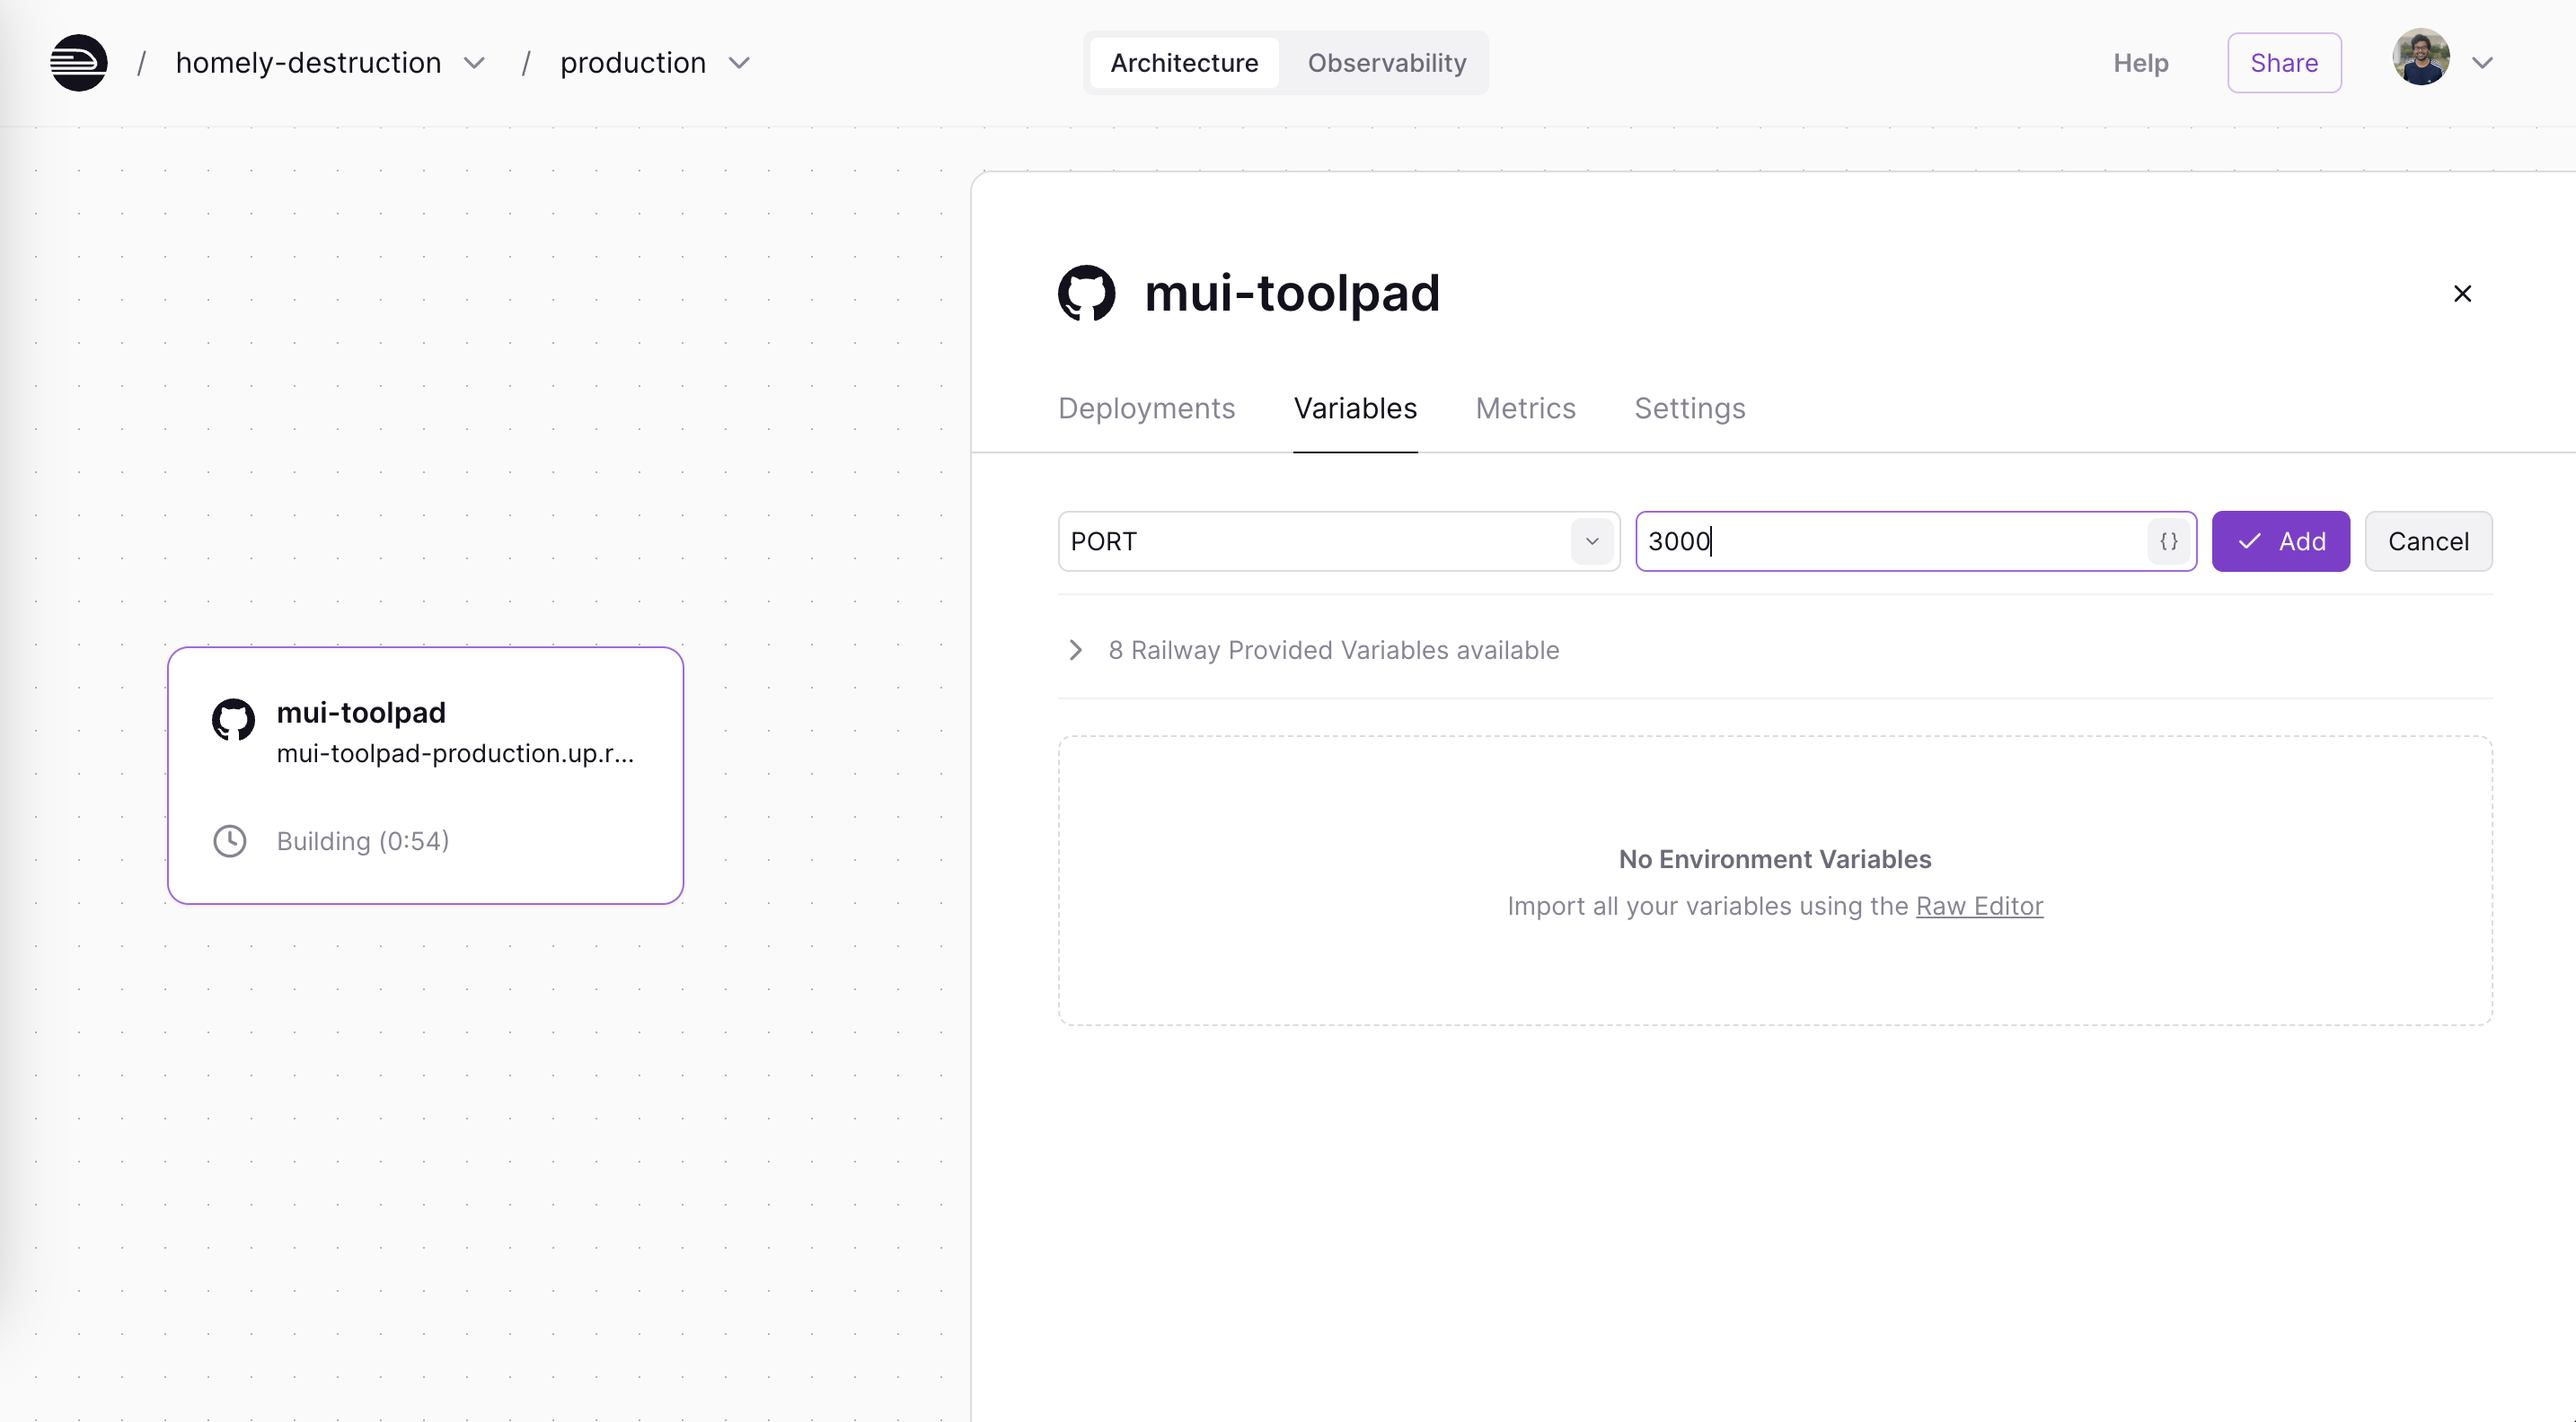
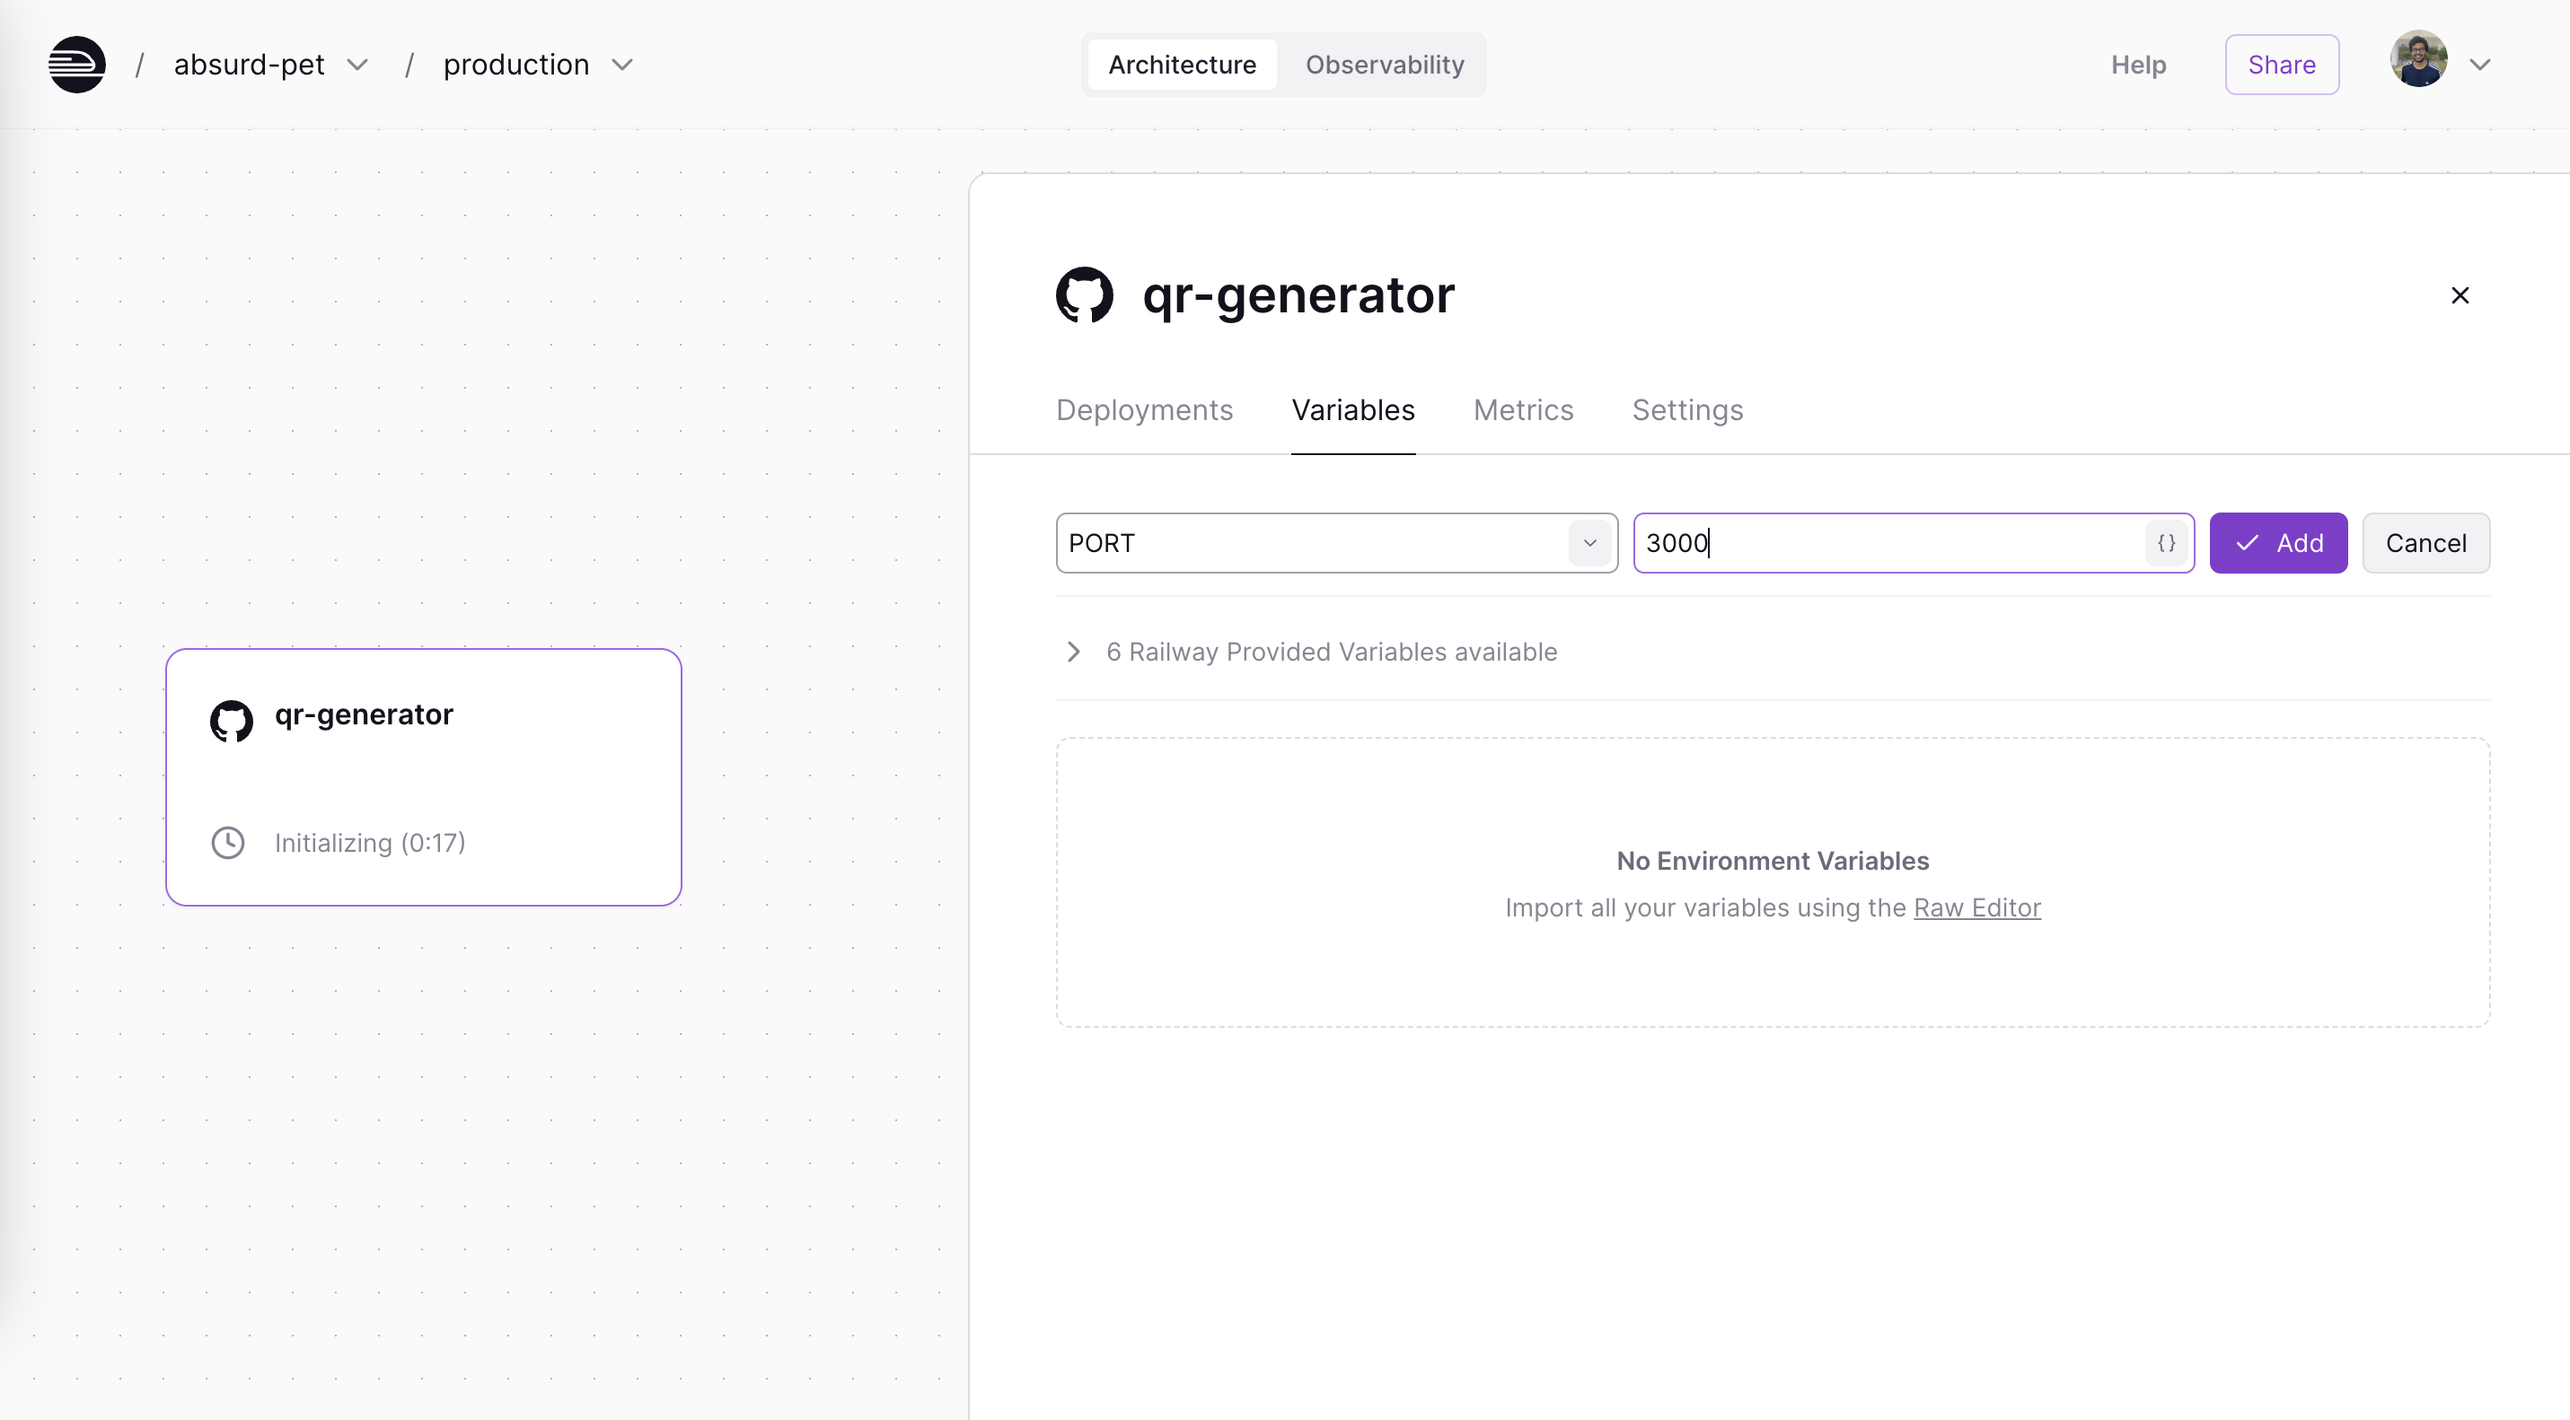
change repo and make it a happy flow

diff --git a/docs/data/toolpad/studio/how-to-guides/railway-deploy.md b/docs/data/toolpad/studio/how-to-guides/railway-deploy.md
@@ -2,7 +2,7 @@
 
 <p class="description">You can host and share your Toolpad Studio apps on Railway in a few minutes, for free.</p>
 
-This guide walks you throught the deployment of the [qr-generator](https://github.com/mui/mui-toolpad/tree/master/examples/qr-generator) example from the Toolpad repository.
+This guide walks you through the deployment of a [qr-generator](https://github.com/Prakhar-org/qr-generator) example from a GitHub repository.
 
 ## Prerequisites
 
@@ -12,7 +12,7 @@ This guide walks you throught the deployment of the [qr-generator](https://githu
 
 ## Creating a new app on Railway
 
-1. From your Railway dashboard, click on **New Project** from the top-right corner and choose **Deploy from GitHub repo** form the drop-down.
+1. From your Railway dashboard, click on **New Project** from the top-right corner and choose **Deploy from GitHub repo** from the drop-down.
 
 {{"component": "modules/components/DocsImage.tsx", "src": "/static/toolpad/docs/studio/deploy-railway/railway-create-new-project.png", "alt": "Railway new project", "caption": "Creating a new Railway project", "indent": 1 }}
 
@@ -20,17 +20,19 @@ This guide walks you throught the deployment of the [qr-generator](https://githu
 
 {{"component": "modules/components/DocsImage.tsx", "src": "/static/toolpad/docs/studio/deploy-railway/choose-repository.png", "alt": "Choosing the repository", "caption": "Choosing the repository", "indent": 1 }}
 
-3. Select the repository and click **Deploy Now**. Railway can guess that you are deploying a Node app.
+3. Select the repository and click on **Add Variables**. Any environment variables that your app needs can be set up now.
 
-4. The default build may fail as some config changes are required. On the deployment screen, you'll see four tabs, navigate to the **Settings** tab and update the root directory as shown below.
+{{"component": "modules/components/DocsImage.tsx", "src": "/static/toolpad/docs/studio/deploy-railway/add-variable.png", "alt": "Adding variable", "caption": "Adding a variable","indent": 1 }}
 
-{{"component": "modules/components/DocsImage.tsx", "src": "/static/toolpad/docs/studio/deploy-railway/configure-root-directory.png", "alt": "Configuring the root directory", "caption": "Configuring the root directory", "indent": 1 }}
+4. Toolpad Studio apps run on port 3000, so add a `PORT` variable and set its value to 3000.
 
-5. Scroll down and click on **Generate Domain** to create a public URL. You can also create a custom URL.
+{{"component": "modules/components/DocsImage.tsx", "src": "/static/toolpad/docs/studio/deploy-railway/add-port-as-a-variable.png", "alt": "Adding port as a variable", "caption": "Adding PORT as a variable", "indent": 1 }}
+
+5. On the same UI, go to the Settings tab, scroll down and and click on **Generate Domain** to create a public URL. You can also create a custom URL.
 
 {{"component": "modules/components/DocsImage.tsx", "src": "/static/toolpad/docs/studio/deploy-railway/generate-domain.png", "alt": "Generating a public URL", "caption": "Generating a public URL", "indent": 1 }}
 
-6. The build and start commands commands are set to
+6. If you scroll below, you'll see that the build and start commands are set to
 
    ```bash
    $ npm run build
@@ -39,14 +41,18 @@ This guide walks you throught the deployment of the [qr-generator](https://githu
 
    by default. You can leave this unchanged.
 
-7. Toolpad Studio apps run on port 3000, so navigate to the **Variables** tab to add a `PORT` variable and set its value to 3000.
+7. Now a floating Deploy button will be shown on the top. Click it and the build starts.
 
-{{"component": "modules/components/DocsImage.tsx", "src": "/static/toolpad/docs/studio/deploy-railway/add-port-as-a-variable.png", "alt": "Adding port as a variable", "caption": "Adding PORT as a variable", "indent": 1 }}
+{{"component": "modules/components/DocsImage.tsx", "src": "/static/toolpad/docs/studio/deploy-railway/deploy.png", "alt": "Generating a public URL", "caption": "Generating a public URL", "indent": 1 }}
 
 8. Once this is successfully complete, you can access your Toolpad Studio app from the public URL available on the card.
 
-That's it! The app is up and [running](https://mui-toolpad-qr-generator-production.up.railway.app/prod/pages/qrcode).
+That's it! The app is up and [running](https://qr-generator-production-ccf4.up.railway.app/prod/pages/qrcode).
 
 Make changes, push to GitHub, and your app automatically redeploys each time. Like Railway, you can deploy to any hosting provider of your choice.
 
 Check out the Railway documentation for more advanced settings, like adding [variables](https://docs.railway.app/guides/variables) to your app.
+
+### Common Pitfalls
+
+1. Sometimes the build may fail as your app could be in a different directory. To configure the right path, navigate to the **Settings** tab and update the root directory.
